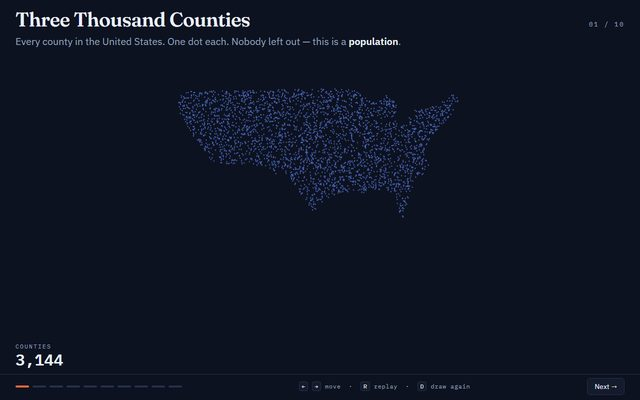
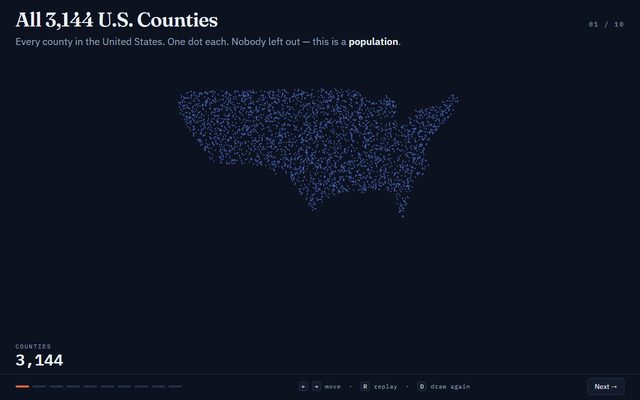
Teaching animations: plain, direct titles inside each animation; new previews

Changed region(s): [[0.0, 0.03, 0.4062, 0.09]]

diff --git a/teaching/dataset-shape.html b/teaching/dataset-shape.html
@@ -1,5 +1,5 @@
 <meta charset="utf-8">
-<title>Every Dataset Has a Shape</title>
+<title>Joint, Marginal and Conditional Distributions</title>
 <link rel="preconnect" href="https://fonts.googleapis.com">
 <link rel="preconnect" href="https://fonts.gstatic.com" crossorigin>
 <link rel="stylesheet" href="https://fonts.googleapis.com/css2?family=Fraunces:opsz,wght@9..144,400;9..144,600;9..144,700&family=IBM+Plex+Sans:wght@400;500;600&family=IBM+Plex+Mono:wght@400;500;600&display=swap">
@@ -413,19 +413,19 @@ scene({
   tab:"1 · Joint, marginal, conditional",
   table(){return A1TABLE;},
   steps:[
-    {t:"One hundred analysts, six boxes.",
+    {t:"The 100 hires by internship and salary",
      c:"Each one lands in exactly one of six boxes: internship or not, crossed with the salary band they started on. The floor is the table; the height will be the probability."},
-    {t:"Joint — one cell, one bar.",
+    {t:"Joint probability",
      c:"<b>Hover any bar.</b> The six heights are 0.08, 0.16, 0.16 across the interns and 0.30, 0.24, 0.06 across the rest. They add to 1."},
-    {t:"Marginal of X — add across the row and salary disappears.",
+    {t:"Marginal distribution of X",
      c:"The three bars in each internship row slide together into one. <b>P(X = 1) = 0.08 + 0.16 + 0.16 = 0.40</b>, and P(X = 0) = 0.60."},
-    {t:"Marginal of Y — the same move the other way.",
+    {t:"Marginal distribution of Y",
      c:"Now the two bars in each salary column merge. <b>P(Y = 80) = 0.16 + 0.06 = 0.22</b>. A marginal is just a row total or a column total."},
-    {t:"Now I tell you one thing: this person did an internship.",
+    {t:"Conditioning on an internship",
      c:"Sixty people are gone — the back row fades out, and its rows grey out in the table. Only the forty interns are still in the running."},
-    {t:"Conditional — what is left has to add to 1 on its own.",
+    {t:"Conditional distribution of salary",
      c:"Divide each surviving cell by 0.40: <b>0.20, 0.40, 0.40</b>. That is P(Y = y | X = 1). Same shape, rescaled."},
-    {t:"The best guess inside each row.",
+    {t:"Conditional mean of salary",
      c:"<b>E[Y | X = 1] = 40(0.20) + 60(0.40) + 80(0.40) = 64</b> and <b>E[Y | X = 0] = 52</b>. Each row balances on its own plank."}
   ],
   build(){
@@ -584,20 +584,20 @@ const BERKTABLE={
 BERKTABLE.onHover=(gid,on)=>{if(si!==1||!built||!built.hi)return;built.hi(gid,on);};
 
 scene({
-  tab:"2 · Berkeley in six clicks",
+  tab:"2 · Berkeley admissions, 1973",
   table(){return BERKTABLE;},
   steps:[
-    {t:"Berkeley, 1973. A nine-point gap, and a lawsuit.",
+    {t:"Admission rates by sex, 1973",
      c:"2,691 men applied and <b>44%</b> were admitted. 1,835 women applied and <b>30%</b> were admitted. The university was accused of discriminating against women."},
-    {t:"Each headline number is six departments squashed into one.",
+    {t:"The six departments behind each rate",
      c:"The same two bars, cut into the six departments that made them. Each slice is that department's admitted students as a share of <b>all</b> applicants of that sex."},
-    {t:"The two groups did not apply to the same places.",
+    {t:"Where men and women applied",
      c:"Where each group applied, as a share of its own applicants, with the departments ordered from easiest to hardest to get into. <b>Women applied where almost everyone is rejected.</b>"},
-    {t:"Compare inside a department, not across the university.",
+    {t:"Admission rates within departments",
      c:"Department A admitted <b>62%</b> of the men who applied and <b>82%</b> of the women. That is the comparison you actually want."},
-    {t:"In four of the six, women were admitted at an equal or higher rate.",
+    {t:"Women admitted at equal or higher rates in four departments",
      c:"A, B, D and F. In C and E the men's rate is higher by three or four points. Nothing here looks like a nine-point gap against women."},
-    {t:"Did the rows move, or did the weights?",
+    {t:"Rates versus application shares",
      c:"The rows say no gap. The <b>weights</b> — where each group applied — made the headline. Ask that question of every average of averages you ever see."}
   ],
   build(){
@@ -761,20 +761,20 @@ const A3TABLE={
 };
 
 scene({
-  tab:"3 · Four knobs",
+  tab:"3 · Describing a distribution",
   table(){return A3TABLE;},
   steps:[
-    {t:"One curve. Four numbers describe it.",
+    {t:"Four numbers that describe a distribution",
      c:"Start at the normal: <b>skewness 0, kurtosis 3</b>. Every readout below is integrated from the curve you are looking at, so they always agree."},
-    {t:"Knob 1 — center. Where is it?",
+    {t:"Center",
      c:"The <b>center</b> buttons are live. The mean is the balance point; the median is the middle. Right now they sit on top of each other."},
-    {t:"Knob 2 — spread. How spread out is it?",
+    {t:"Spread",
      c:"<b>Spread</b> is live too. Same shape, wider or narrower. The bracket under the curve is one SD either side of the mean."},
-    {t:"Knob 3 — skewness. Which tail is longer?",
+    {t:"Skewness",
      c:"Push <b>skewness</b> up and the right tail stretches. Watch the mean pull away from the median: <b>mean above median means a right tail</b>."},
-    {t:"Knob 4 — kurtosis. How often does something extreme happen?",
+    {t:"Kurtosis",
      c:"<b>Kurtosis</b> changes the tails without changing the center or the spread. The normal is exactly <b>3</b>. Above 3, the shaded tails get fatter."},
-    {t:"All four at once, and the real thing.",
+    {t:"All four, fitted to Florida county income",
      c:"Press <b>show Florida income</b>: the 67-county histogram appears behind the curve and the four knobs snap to the real values — mean 37,096, SD 10,200, skew <b>0.41</b>, kurt <b>2.45</b>."}
   ],
   ctrls:`<div class="ctrl" id="k1"><span class="lbl">center</span><button data-act="c-">−</button><output id="oc">50</output><button data-act="c+">+</button></div>
@@ -960,22 +960,22 @@ const SAYTABLE={
 };
 
 scene({
-  tab:"4 · The normal, built up",
+  tab:"4 · The normal distribution",
   table(i){return i>=8?A3TABLE:SAYTABLE;},
   steps:[
-    {t:"Before the formula, the sentence.",
+    {t:"Reading the notation",
      c:"An empty axis. We are going to write one line of notation, one symbol at a time, and every symbol is a word."},
     {t:"X",c:"<b>The thing you are measuring.</b> A county's income, a student's score, tomorrow's return."},
     {t:"~",c:"Reads <b>is distributed as</b>. Not an equals sign, not an approximation. It says <b>follows this shape</b>."},
     {t:"N",c:"<b>N for normal.</b> The name of the shape — the bell. Nothing more mysterious than a name."},
     {t:"(μ, σ²)",c:"<b>The only two numbers you have to supply.</b> Where it sits, and how wide it is."},
-    {t:"And here is the shape those five symbols name.",
+    {t:"The normal curve",
      c:"The curve draws itself. μ is marked on the axis, and σ is the distance from the middle out to the shoulder of the bell."},
-    {t:"Two knobs, and the shape never changes.",
+    {t:"Changing the mean and the SD",
      c:"The buttons are live. <b>μ slides the curve; σ stretches it.</b> Everything else about a normal curve is fixed forever. Try μ = 100, σ = 15."},
-    {t:"68 — 95 — 99.7.",
+    {t:"The 68-95-99.7 rule",
      c:"Within μ ± σ, <b>68%</b>. Within μ ± 2σ, <b>95%</b>. Within μ ± 3σ, <b>99.7%</b>. These three numbers do not depend on μ or σ."},
-    {t:"Checked on the real thing: 67 Florida counties.",
+    {t:"The rule in 67 Florida counties",
      c:"Per capita income, mean $37,096, SD $10,200. Within one SD: <b>67%</b> of counties. Within two: <b>96%</b>. The rule holds."}
   ],
   ctrls:`<div class="ctrl" id="n1"><span class="lbl">μ</span><button data-act="mu-">−</button><output id="omu">0</output><button data-act="mu+">+</button></div>
@@ -1138,22 +1138,22 @@ const ZTABLE={
 };
 
 scene({
-  tab:"5 · One ruler",
+  tab:"5 · z-scores",
   table(i){return i>=6?A3TABLE:ZTABLE;},
   steps:[
-    {t:"Who did better: SAT 1,300 or ACT 29?",
+    {t:"Comparing an SAT score and an ACT score",
      c:"2024 national figures. SAT: mean 1,024, SD 229. ACT: mean 19.4, SD 5.9. Two different rulers; you cannot subtract them."},
-    {t:"Step one: subtract the mean.",
+    {t:"Subtract the mean",
      c:"Both curves slide so their centres sit at 0. The axes now read <b>deviations</b>: +276 and +9.6. Still two rulers — 276 what, against 9.6 what?"},
-    {t:"Step two: divide by the SD.",
+    {t:"Divide by the SD",
      c:"Both curves stretch or shrink to SD 1. The two axes have become <b>one z axis</b>."},
-    {t:"One axis, two marks.",
+    {t:"Both scores on one scale",
      c:"Now — and only now — the two scores are on the same ruler and can be compared directly."},
-    {t:"z = 1.21 and z = 1.63.",
+    {t:"The two z-scores",
      c:"<b>Z = (X − μ) / σ</b>. 276 / 229 = 1.21; 9.6 / 5.9 = 1.63. <b>The ACT score is the more unusual one.</b>"},
-    {t:"How many test takers sit below each mark?",
+    {t:"Percentiles from z-scores",
      c:"Area to the left of z: <b>88.6%</b> below 1.21 and <b>94.8%</b> below 1.63. That is Φ(z), the normal table — and the third column of the panel on the right."},
-    {t:"Same county, two rulers.",
+    {t:"Alachua County wage and income as z-scores",
      c:"Alachua's weekly wage $1,227 against the state (mean 1,061, SD 168): z = <b>0.99</b>. Its per-capita income $38,869 (mean 37,096, SD 10,200): z = <b>0.17</b>. Unusually well paid, ordinary income."}
   ],
   build(){

diff --git a/teaching/counties.html b/teaching/counties.html
@@ -1,5 +1,5 @@
 <meta charset="utf-8">
-<title>Three Thousand Counties</title>
+<title>Mean, Standard Deviation and Sampling Error</title>
 <link rel="preconnect" href="https://fonts.googleapis.com">
 <link rel="preconnect" href="https://fonts.gstatic.com" crossorigin>
 <link rel="stylesheet" href="https://fonts.googleapis.com/css2?family=Fraunces:opsz,wght@9..144,400;9..144,600&family=IBM+Plex+Mono:wght@400;600&family=IBM+Plex+Sans:wght@400;500;600&display=swap">
@@ -374,56 +374,56 @@ const easeOut=t=>1-Math.pow(1-t,3);
 
 /* ---------- scenes ----------------------------------------------------- */
 const SCENES=[
-{t:"Three Thousand Counties",
+{t:"All 3,144 U.S. Counties",
  s:"Every county in the United States. One dot each. Nobody left out &mdash; this is a <b>population</b>.",
  reveal:1, dur:2600, stats:[["counties","3,144",""]]},
 
-{t:"What Each Dot Is Worth",
+{t:"Median Household Income by County",
  s:"Now shade each dot by its <b>median household income</b>. Darker is richer. Stack all 3,144 values up and you get the distribution along the bottom.",
  shade:1, dist:1, reveal:1, dur:1900,
  stats:[["counties","3,144",""],["poorest",()=>money(Math.min(...inc)),""],["richest",()=>money(Math.max(...inc)),""]]},
 
-{t:"E[X] &mdash; the Balancing Point",
+{t:"E[X], the Mean",
  s:"Where does that picture balance? That single number is your <span class='o'>best guess</span> for a county you know nothing else about.",
  shade:1, dist:1, mean:1, dur:1200,
  stats:[["E[X]",()=>money(MU),"orange"]]},
 
-{t:"SD &mdash; How Far Off That Guess Usually Is",
+{t:"SD, the Standard Deviation",
  s:"A typical county sits about this far from the average. The mean alone would never have told you the country was <b>this spread out</b>.",
  shade:1, dist:1, mean:1, sd:1, dur:1500,
  stats:[["E[X]",()=>money(MU),"orange"],["SD",()=>money(SIG),"orange"],
         ["typical county",()=>money(MU-SIG)+" – "+money(MU+SIG),""]]},
 
-{t:"E[Y | X] &mdash; One Thing About the County",
+{t:"E[Y | X], Metro and Non-Metro Counties",
  s:"Split them: <span class='o'>metro</span> and <span class='b'>non-metro</span>. Two groups, two distributions, <b>two different best guesses</b>.",
  split:1, dist:1, dur:1500,
  stats:[["E[Y | non-metro]",()=>money(MU_N),"blue"],["E[Y | metro]",()=>money(MU_M),"orange"]]},
 
-{t:"Making the Comparison",
+{t:"The Difference in Conditional Means",
  s:"The distance between two conditional averages. <b>Every question in this course has this shape</b> &mdash; a tariff, a training program, a year of schooling.",
  split:1, dist:1, gap:1, dur:1500,
  stats:[["E[Y | non-metro]",()=>money(MU_N),"blue"],["E[Y | metro]",()=>money(MU_M),"orange"],
         ["difference",()=>money(MU_M-MU_N),""]]},
 
-{t:"Now Take the Country Away",
+{t:"A Sample of 40 Counties",
  s:"Every number so far needed all 3,144 counties. <b>You will never have all 3,144.</b> You get the orange dots. Forty of them.",
  dim:1, dist:1, sample:1, dur:900,
  stats:[["you have","40 counties",""],["your estimate",()=>money(sampleMean),"orange"],
         ["the truth",()=>money(MU),"blue"]]},
 
-{t:"Draw Again",
+{t:"A Second Sample of 40",
  s:"Same country, same recipe, a different forty. Press <kbd>D</kbd> and watch the answer move &mdash; <b>not one county changed</b>.",
  dim:1, dist:1, sample:1, tally:1, dur:600, redraw:1,
  stats:[["draws so far",()=>tally.length,""],["this estimate",()=>money(sampleMean),"orange"],
         ["the truth",()=>money(MU),"blue"]]},
 
-{t:"Your Estimate Is a Random Variable",
+{t:"The Sampling Distribution of the Mean",
  s:"Two hundred honest samples. They miss in both directions, but they pile up <b>centred on the truth</b>. That pile is the thing the rest of the semester is about.",
  dim:1, dist:1, sample:1, tally:1, dur:2400, bulk:200,
  stats:[["draws",()=>tally.length,""],["spread of estimates",()=>money(sd(tally)),"orange"],
         ["σ / √n",()=>money(SIG/Math.sqrt(sampleN)),"blue"]]},
 
-{t:"Four Times the Data, Half the Error",
+{t:"Sample Size and the Standard Error",
  s:"Same experiment at <b>n = 40, then 160, then 640</b>. Press <kbd>D</kbd> to step up. The pile tightens by half each time &mdash; that is the <span class='o'>&radic;n rule</span>.",
  dim:1, dist:1, sample:1, tally:1, dur:2000, grow:1,
  stats:[["sample size",()=>sampleN,"orange"],["spread of estimates",()=>money(sd(tally)),"orange"],

diff --git a/teaching/trust-a-slope.html b/teaching/trust-a-slope.html
@@ -2,7 +2,7 @@
 <html lang="en">
 <head>
 <meta charset="utf-8">
-<title>Lecture 10 animations: how much can you trust a slope?</title>
+<title>The Sampling Distribution of the OLS Slope</title>
 <meta name="viewport" content="width=device-width, initial-scale=1">
 <style>
   :root{ --blue:#0021A5; --soft:#4A6FD4; --orange:#FA4616; --ink:#6B7280; --bg:#FCFCFE; }
@@ -86,7 +86,7 @@ function setLine(e,L){ e.setAttribute("x1",L.x1.toFixed(1)); e.setAttribute("y1"
 const A={};
 function startA(){
   clear(); fades=[]; captionEl=null;
-  header("The error and the residual: which one moves?","Animation 1 of 3");
+  header("The error and the residual","Animation 1 of 3");
   A.P=plotArea(250,1150,140,740,0,16,0,100); const P=A.P;
   axes(P,[0,4,8,12,16],[0,25,50,75,100],"X","Y");
   A.clip=clipTo(P);
@@ -140,7 +140,7 @@ const CUM=(()=>{let s=0; return CELLS.map(c=>(s+=c[2]));})(), TOT=CUM[CUM.length
 function drawCell(r){ const u=r()*TOT; let lo=0,hi=CUM.length-1; while(lo<hi){const m=(lo+hi)>>1; if(CUM[m]>u) hi=m; else lo=m+1;} return CELLS[lo]; }
 function startB(){
   clear(); fades=[]; captionEl=null;
-  header("Draw plays at random, fit the line, keep the slope. Repeat.","Animation 2 of 3");
+  header("The sampling distribution of the slope","Animation 2 of 3");
   B.P=plotArea(170,760,150,690,0.5,15.5,0,1); const P=B.P;
   axes(P,[1,3,5,7,9,11,13,15],[0,0.25,0.5,0.75,1],"yards to go","share of the sample that converted",null,v=>Math.round(v*100)+"%");
   B.clip=clipTo(P);
@@ -227,7 +227,7 @@ const D={};
 const DN=[10,25,50,100,400], DS=[3,6,12,20,30], DX=[0.6,1.2,2.4,3.6,4.8];
 function startD(){
   clear(); fades=[]; captionEl=null;
-  header("What makes a slope precise: data, noise, spread in X","Animation 3 of 3");
+  header("Sample size, noise and the spread of X","Animation 3 of 3");
   D.P=plotArea(170,1040,140,640,0,20,0,140); const P=D.P;
   axes(P,[0,5,10,15,20],[0,35,70,105,140],"X","Y");
   D.clip=clipTo(P); D.B0=40; D.B1=3;

diff --git a/teaching/small-samples.html b/teaching/small-samples.html
@@ -2,7 +2,7 @@
 <html lang="en">
 <head>
 <meta charset="utf-8">
-<title>Lecture 9 animations: small samples, noise and bias</title>
+<title>Sampling Noise and Bias</title>
 <meta name="viewport" content="width=device-width, initial-scale=1">
 <style>
   :root{ --blue:#0021A5; --soft:#4A6FD4; --orange:#FA4616; --ink:#6B7280; --bg:#FCFCFE; }
@@ -54,7 +54,7 @@ function tickFades(now){fades=fades.filter(f=>{const k=Math.min(1,(now-f.t0)/f.m
 const A={};
 function startA(){
   clear(); fades=[]; captionEl=null;
-  header("Every FBS carry of 2026, in the order they happened","Animation 1 of 2");
+  header("Yards per carry by number of carries, 2026 FBS season","Animation 1 of 2");
   const X0=190,X1=1470,Y0=150,Y1=760, XMAX=100, YMIN=-15, YMAX=40;
   A.sx=v=>X0+(Math.min(v,XMAX)/XMAX)*(X1-X0);
   A.sy=v=>Y1-((Math.max(YMIN,Math.min(YMAX,v))-YMIN)/(YMAX-YMIN))*(Y1-Y0);
@@ -126,7 +126,7 @@ const B={};
 const NS_=[4,16,64,256,1024];
 function startB(){
   clear(); fades=[]; captionEl=null;
-  header("More data shrinks the scatter. Does it fix the aim?","Animation 2 of 2");
+  header("Random samples and volunteer samples","Animation 2 of 2");
   B.k=0; B.n=NS_[0]; B.playing=true; B.last=0; B.rnd=mul(28);
   B.boards=[
     {cx:470, cy:440, bias:[0,0],     name:"a random sample",            sub:"unbiased"},
